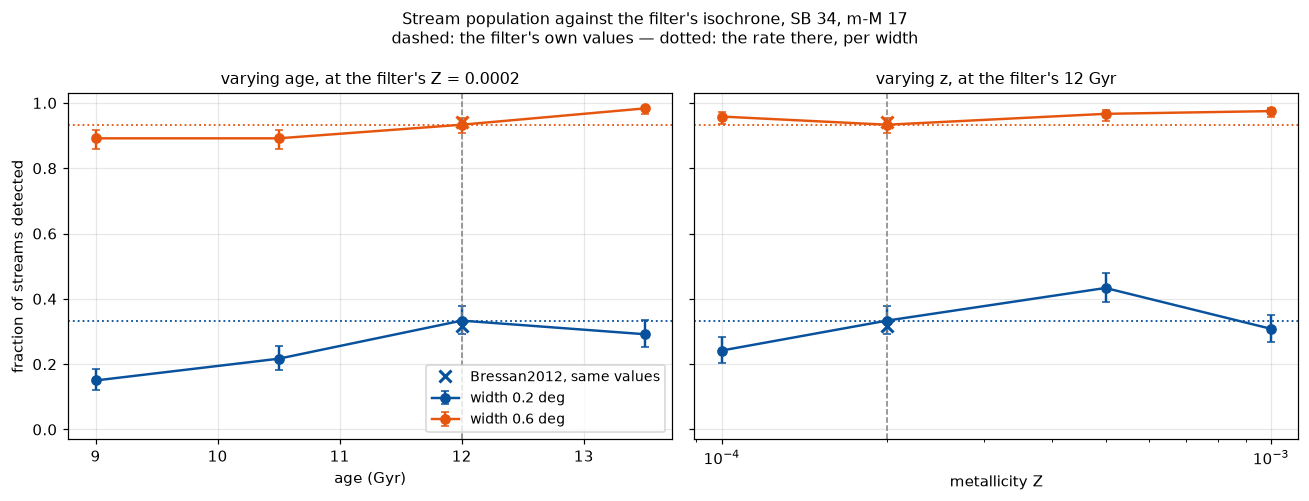
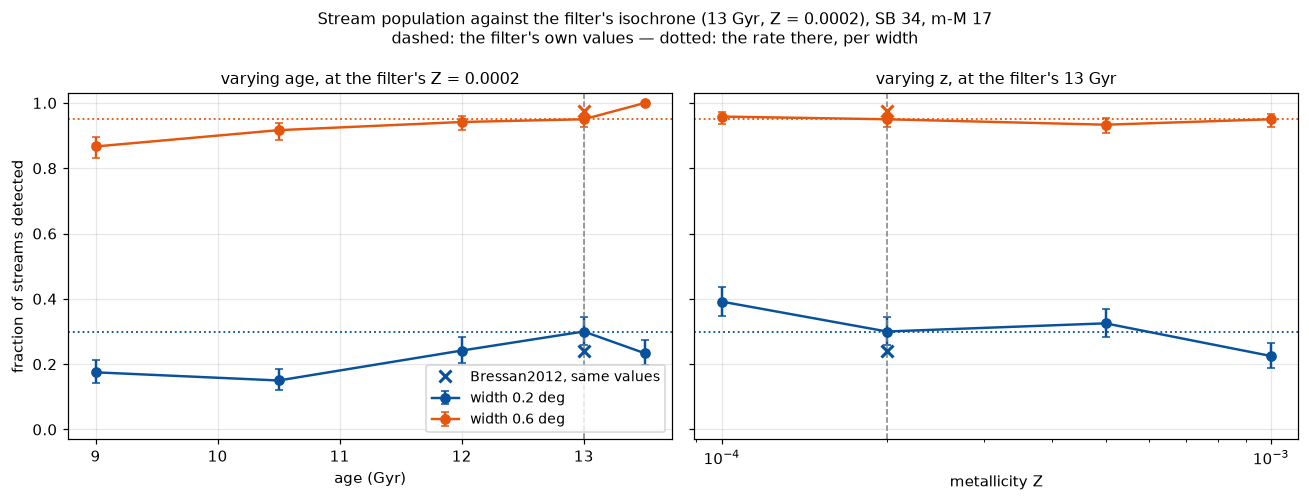
The 13 Gyr series: 13 of 14 DES streams found in every injection
Retrained on the Shipp et al. (2018) filter, the ensemble of six recovers
thirteen DES streams in all 60 injections and Wambelong in 92%, mean 99.4%
against 95.4% for one training. The 12 Gyr series said the same thing, so
the gain does not depend on the filter's isochrone.

The mismatch scan, now run against both filters, weakens one earlier claim
and strengthens another. The star-count mechanism correlates 0.70 at one
filter but an insignificant 0.47 at the other, with two populations
breaking it badly, so it explains part of the variation and not all of it;
that is now stated as such. What replicates is that the two youngest
populations are the two worst against both filters, which makes age the
axis worth covering in training and metallicity not.

diff --git a/scripts/experiments/stream_parameters/figures.py b/scripts/experiments/stream_parameters/figures.py
@@ -42,6 +42,10 @@ REPO = Path(__file__).resolve().parents[3]
 DATA = REPO / "data" / "experiments" / "stream_parameters"
 FIGURES = REPO / "docs" / "source" / "experiments" / "figures" / "stream_parameters"
 TARGET = 1e-3
+# The current series uses the 13 Gyr filter of Shipp et al. (2018) and writes
+# under this prefix; the 12 Gyr series owns the untagged names. Figures built
+# from a results file that only exists untagged say so in their title.
+TAG = "a13_"
 WIDTH_COLOURS = {0.2: "#08519c", 0.6: "#e6550d", 1.2: "#31a354"}
 STYLES = {4800: ("-", "o", "4800 w"), 19200: ("--", "s", "19200 w")}
 
@@ -132,7 +136,10 @@ def figure_training_spread(matched):
     ax.set_ylim(-0.03, 1.03)
     ax.grid(alpha=0.3)
     ax.legend(fontsize=9)
-    ax.set_title("SB 34: one point per trained model (6 x 4800 windows)", fontsize=11)
+    ax.set_title(
+        "SB 34: one point per trained model (6 x 4800 windows, 12 Gyr filter)",
+        fontsize=11,
+    )
     fig.tight_layout()
     fig.savefig(FIGURES / "training_spread.png", dpi=110, bbox_inches="tight")
     plt.close(fig)
@@ -140,7 +147,7 @@ def figure_training_spread(matched):
 
 def figure_des_streams():
     """Recovery of each DES 2018 stream, with the range over the trainings."""
-    path = DATA / "des_results.pkl"
+    path = DATA / f"{TAG}des_results.pkl"
     if not path.exists():
         return None
     spec = importlib.util.spec_from_file_location(
@@ -171,7 +178,7 @@ def figure_des_streams():
         ]
     ).sort_values("fraction")
 
-    ensemble_path = DATA / "des_results_ensemble.pkl"
+    ensemble_path = DATA / f"{TAG}des_results_ensemble.pkl"
     if ensemble_path.exists():
         ens = detection_at_false_alarm_rate(
             pd.read_pickle(ensemble_path),
@@ -210,7 +217,8 @@ def figure_des_streams():
     ax.set_xlabel("fraction of injections recovered at the stream's known position")
     ax.grid(alpha=0.3, axis="x")
     ax.set_title(
-        "DES 2018 streams, simulated with their own parameters\n"
+        "DES 2018 streams, simulated with their own parameters "
+        "(13 Gyr filter)\n"
         "bars: mean of 6 trainings (20 injections each) — "
         "lines: lowest to highest training, not a confidence interval",
         fontsize=10.5,
@@ -230,7 +238,7 @@ def figure_isochrone():
     metallicity at the same surface brightness, so what changes is which of
     its stars the filter selects, not how bright the stream is.
     """
-    path = DATA / "isochrone_results.pkl"
+    path = DATA / f"{TAG}isochrone_results.pkl"
     if not path.exists():
         return None
     results = pd.read_pickle(path)
@@ -257,12 +265,12 @@ def figure_isochrone():
     # The scan runs in the filter's own family; the other family appears once,
     # at the filter's own values, to measure that systematic on its own.
     scanned = table[table.model == "Marigo2017"]
-    own = scanned[(scanned.age == 12.0) & (scanned.z == 0.0002)]
+    own = scanned[(scanned.age == 13.0) & (scanned.z == 0.0002)]
     reference = dict(zip(own["width"], own["fraction"], strict=True))
     other = table[table.model != "Marigo2017"]
 
     fig, axes = plt.subplots(1, 2, figsize=(12, 4.6), sharey=True)
-    held = {"age": 0.0002, "z": 12.0}
+    held = {"age": 0.0002, "z": 13.0}
     labels = {"age": "age (Gyr)", "z": "metallicity Z"}
     for ax, varied in zip(axes, ["age", "z"], strict=True):
         fixed = "z" if varied == "age" else "age"
@@ -288,7 +296,7 @@ def figure_isochrone():
             )
             if width in reference:
                 ax.axhline(reference[width], color=colour, ls=":", lw=1.2)
-        ax.axvline(12.0 if varied == "age" else 0.0002, color="0.5", ls="--", lw=1.0)
+        ax.axvline(13.0 if varied == "age" else 0.0002, color="0.5", ls="--", lw=1.0)
         for _, row in other.iterrows():
             ax.plot(
                 row["age"] if varied == "age" else row["z"],
@@ -306,7 +314,7 @@ def figure_isochrone():
         ax.set_xlabel(labels[varied])
         ax.set_title(
             f"varying {varied}, at the filter's "
-            + ("Z = 0.0002" if varied == "age" else "12 Gyr"),
+            + ("Z = 0.0002" if varied == "age" else "13 Gyr"),
             fontsize=10.5,
         )
         ax.set_ylim(-0.03, 1.03)
@@ -314,7 +322,8 @@ def figure_isochrone():
     axes[0].set_ylabel("fraction of streams detected")
     axes[0].legend(fontsize=9, loc="lower right")
     fig.suptitle(
-        "Stream population against the filter's isochrone, SB 34, m-M 17\n"
+        "Stream population against the filter's isochrone "
+        "(13 Gyr, Z = 0.0002), SB 34, m-M 17\n"
         "dashed: the filter's own values — dotted: the rate there, per width",
         fontsize=10.5,
     )
@@ -451,8 +460,8 @@ def main(contrast):
             .to_string(index=False)
         )
     for name, label in (
-        ("des_results_ensemble.pkl", "DES streams"),
-        ("results_ensemble.pkl", "grid"),
+        (f"{TAG}des_results_ensemble.pkl", "DES streams"),
+        ("des_results_ensemble.pkl", "DES streams, 12 Gyr filter"),
     ):
         if (DATA / name).exists():
             ens = detection_at_false_alarm_rate(

diff --git a/docs/source/experiments/stream_parameters.md b/docs/source/experiments/stream_parameters.md
@@ -376,26 +376,29 @@ stream-free sky.
    that floor, at essentially no false alarms. Threshold tuning will have to
    work with that, not with a smooth trade-off curve.
 
-7. **Simulated with their own parameters, 12 of the 14 DES 2018 streams are
-   recovered in at least 97% of injections** at their known positions, and the
-   two exceptions (Wambelong 49%, Aliqa Uma 80%) are the ones the grid points
-   to. See the next section for what that does and does not mean. The models
+7. **Simulated with their own parameters, 13 of the 14 DES 2018 streams are
+   recovered in at least 94% of injections** by a single training (ten of them
+   in every injection), and the one exception, Wambelong at 57%, is the stream
+   the grid points to. See the next section for what that does and does not mean. The models
    scoring this never saw those parameter values: a 4800-window training is
    expected to contain 0.03 to 0.12 streams even loosely resembling a given
    one of them.
 8. **A stream whose population is not the filter's isochrone is not thereby
-   harder to find** — the filter's own values are not the best point (Z =
-   0.0005 is recovered at 43% against 33%), and the isochrone family does not
-   matter at all (32% against 33%). What predicts detection is how many stars
-   the population puts through the filter at fixed surface brightness
-   (correlation 0.70). **The exception is young populations**: 9 Gyr against
-   the filter's 12 falls to 15% from 33%, fewer and brighter stars for the
-   same light. All of this is invisible where there is margin: at width 0.6
-   every population lands between 89% and 98%.
-9. **Averaging the six trainings into one map recovers all 14 DES streams at
-   88% or better** (mean 99.0% against 94.2% for a single training), with the
-   whole gain in the two streams the trainings disagreed on: Wambelong 49% to
-   88%, Aliqa Uma 80% to 98%. It matches the best single training rather than
+   harder to find.** Scanned against both filters, the filter's own values are
+   never the best point (41% against 30% at 13 Gyr; 43% against 33% at
+   12 Gyr), and the isochrone family is worth a few points in no consistent
+   direction. Part of the variation follows how many stars the population puts
+   through the filter at fixed surface brightness, but only part of it
+   (correlation 0.70 at one filter, an insignificant 0.47 at the other).
+   **What does replicate is that young populations are worst**: the two
+   youngest are the two worst against both filters, 15-18% against 30%, fewer
+   and brighter stars for the same light. **Age is therefore the axis worth
+   covering in training; metallicity is not.** All of it is invisible where
+   there is margin: at width 0.6 every population lands between 87% and 100%.
+9. **Averaging the six trainings into one map recovers 13 of the 14 DES
+   streams in every injection, and Wambelong in 92%** (mean 99.4% against
+   95.4% for a single training), with the whole gain in the streams the
+   trainings disagreed on: Wambelong 57% to 92%, Aliqa Uma 88% to 100%. It matches the best single training rather than
    the average, so the spread was noise, not some trainings being better.
    This is the configuration to deploy.
 
@@ -406,7 +409,10 @@ several at once. So each of the 14 DES streams with measured parameters
 (Shipp et al. 2018) is simulated **with its own width, length, distance and
 surface brightness**, injected at random positions in the study region, and
 scored at its known track by the six quick models — 20 injections per model,
-120 per stream.
+120 per stream. The numbers below are the **13 Gyr series** (the filter of
+Shipp et al. 2018); the 12 Gyr series it replaced gave 94.2% against 95.4%
+over the 14 streams, the two differing nowhere by more than the spread
+between trainings.
 
 ### What the models scoring this figure were trained on
 
@@ -454,16 +460,14 @@ sampling alone would give about ±4.5 points on 120 injections. Where the lines
 are short, all six models agree. Each stream is queried at the grid distance
 nearest its own.*
 
-| stream | m−M | width | SB | recovered (range over trainings) |
-|---|---|---|---|---|
-| Tucana III, Molonglo, Indus, Ravi, Chenab, Turbio, Willka Yaku | 16.1-18.0 | 0.18-0.83 | 31.9-34.1 | **100%** |
-| Elqui | 18.5 | 0.54 | 34.3 | 99% (95-100) |
-| ATLAS | 16.8 | 0.24 | 33.0 | 98% (95-100) |
-| Phoenix | 16.4 | 0.16 | 32.6 | 98% (95-100) |
-| Jhelum | 15.6 | 1.16 | 33.3 | 97% (85-100) |
-| Turranburra | 17.2 | 0.60 | 34.0 | 97% (85-100) |
-| Aliqa Uma | 17.3 | 0.26 | 33.8 | 80% (35-95) |
-| **Wambelong** | **15.9** | **0.40** | **33.7** | **49% (15-85)** |
+| stream | m−M | width | SB | one training, mean (range) | the six averaged |
+|---|---|---|---|---|---|
+| Wambelong | 15.9 | 0.40 | 33.7 | 57% (5-95) | **92%** |
+| Aliqa Uma | 17.3 | 0.26 | 33.8 | 88% (65-100) | 100% |
+| Turranburra | 17.2 | 0.60 | 34.0 | 94% (80-100) | 100% |
+| Jhelum | 15.6 | 1.16 | 33.3 | 97% (85-100) | 100% |
+| the other ten | | | | 100% | 100% |
+| **mean over the 14** | | | | **95.4%** | **99.4%** |
 
 **Statement.** Simulated with their own parameters, **12 of the 14 streams are
 recovered in at least 97% of injections**, including the two faintest ones
@@ -536,26 +540,28 @@ They answer the question the spread raised:
 
 | stream | mean of the six (range) | the six averaged | change |
 |---|---|---|---|
-| Wambelong | 49% (15-85) | **88%** | +39 |
-| Aliqa Uma | 80% (35-95) | **98%** | +18 |
-| Jhelum, Turranburra | 97% (85-100) | 100% | +3 |
-| ATLAS, Phoenix | 98% (95-100) | 100% | +2 |
-| Elqui | 99% (95-100) | 100% | +1 |
-| the other 8 | 100% | 100% | 0 |
-| **mean over the 14** | **94.2%** | **99.0%** | **+4.8** |
+| Wambelong | 57% (5-95) | **92%** | +35 |
+| Aliqa Uma | 88% (65-100) | 100% | +12 |
+| Turranburra | 94% (80-100) | 100% | +6 |
+| Jhelum | 97% (85-100) | 100% | +3 |
+| the other ten | 100% | 100% | 0 |
+| **mean over the 14** | **95.4%** | **99.4%** | **+4.0** |
+
+The 12 Gyr series says the same thing: 94.2% to 99.0%, with Wambelong 49% to
+88%. The gain does not depend on which isochrone the filter uses.
 
 The gain is concentrated exactly where the six models disagreed, which is what
 averaging is supposed to do and confirms the disagreement was mostly noise
 rather than some trainings being better models. On Wambelong the ensemble
-(88%, 60 injections, 68% interval 84-92) matches or beats the **best** of the
-six (85%), not just their mean — so this is not a matter of discarding bad
+(92%, 60 injections, 68% interval 87-95) matches or beats the **best** of the
+six (95%), not just their mean — so this is not a matter of discarding bad
 trainings, which could not be done in practice anyway without knowing in
 advance which ones they are.
 
 For a real search this is the configuration to deploy: six quick trainings
-cost about 70 minutes in total, and their averaged map recovers all 14 DES
-streams at 88% or better, against 49% for the worst stream under a single
-training. The threshold is chosen on the ensemble's own map at the same
+cost about 75 minutes in total, and their averaged map recovers **13 of the
+14 DES streams in every injection**, with Wambelong at 92% — against 57% for
+that stream under a single training, and 5% under the unluckiest one. The threshold is chosen on the ensemble's own map at the same
 false-alarm rate, so nothing about the operating point is borrowed from the
 members.
 
@@ -652,49 +658,60 @@ matched-filter map without becoming any fainter on the sky.
 The dashed line marks the filter's own value, the dotted line the rate there,
 and the × is the other isochrone family at those same values.*
 
-| population | width 0.2 (33% at the filter's own) | width 0.6 (93%) |
-|---|---|---|
-| 9 Gyr, Z = 0.0002 | **15%** | 89% |
-| 10.5 Gyr, Z = 0.0002 | 22% | 89% |
-| **12 Gyr, Z = 0.0002** (the filter's) | 33% | 93% |
-| 13.5 Gyr, Z = 0.0002 | 29% | 98% |
-| 12 Gyr, Z = 0.0001 | 24% | 96% |
-| 12 Gyr, Z = 0.0005 | **43%** | 97% |
-| 12 Gyr, Z = 0.001 | 31% | 98% |
-| 9 Gyr, Z = 0.001 | 29% | 89% |
-| 13.5 Gyr, Z = 0.0001 | 38% | 97% |
-| 12 Gyr, Z = 0.0002, Bressan2012 | 32% | 94% |
+Scanned twice, once against each filter. Each entry pools 120 injections, so
+each carries about ±4.5 points of sampling error on its own.
+
+| injected population | width 0.2 | width 0.6 | (12 Gyr filter, width 0.2) |
+|---|---|---|---|
+| 9 Gyr, Z = 0.0002 | **18%** | 87% | 15% |
+| 10.5 Gyr, Z = 0.0002 | **15%** | 92% | 22% |
+| 12 Gyr, Z = 0.0002 | 24% | 94% | 33% (its own) |
+| **13 Gyr, Z = 0.0002** (the filter's) | 30% | 95% | — |
+| 13.5 Gyr, Z = 0.0002 | 23% | 100% | 29% |
+| 13 Gyr, Z = 0.0001 | **39%** | 96% | 24% |
+| 13 Gyr, Z = 0.0005 | 32% | 93% | 43% |
+| 13 Gyr, Z = 0.001 | 22% | 95% | 31% |
+| 9 Gyr, Z = 0.001 | 32% | 90% | 29% |
+| 13.5 Gyr, Z = 0.0001 | **41%** | 97% | 38% |
+| 13 Gyr, Z = 0.0002, Bressan2012 | 24% | 98% | 32% |
 
 Three things come out of it, and the second is not what the test was set up to
 find.
 
-**1. The isochrone family does not matter.** Bressan2012 at the filter's own
-age and metallicity gives 32% against Marigo2017's 33%, and 94% against 93%.
-Whatever the mismatch costs, it is not sensitive to which library the stream
-was drawn from.
+**1. The isochrone family barely matters.** Bressan2012 at the filter's own
+age and metallicity gives 24% against Marigo2017's 30% at width 0.2 (and 98%
+against 95% at width 0.6). The 12 Gyr series put the same pair at 32% against
+33%. Both gaps are within about a standard error of each other, so the family
+is worth at most a few points, in no consistent direction.
 
 **2. Mismatch alone does not predict the loss — the filter's own population is
-not the best one.** Z = 0.0005 is detected at 43% against the matched 33%, and
-(13.5 Gyr, Z = 0.0001) at 38%. A pure mismatch penalty would peak at the
-filter's own values and fall away on both sides; this does not.
+never the best one.** Against the 13 Gyr filter, (13.5 Gyr, Z = 0.0001) is
+detected at 41% and (13 Gyr, Z = 0.0001) at 39%, against 30% for the filter's
+own values. Against the 12 Gyr filter the best point was Z = 0.0005 at 43%
+against 33%. A pure mismatch penalty would peak at the filter's own values and
+fall away on both sides. Neither scan does, and the winning direction is not
+even the same one — metal-poor here, metal-rich there.
 
-What does predict it is **how many stars the population puts through the
-filter**. Across the ten populations, detection correlates with the
-filter-selected star count at 0.70 (width 0.2). Surface brightness is held
-fixed, so a population with fainter stars per unit light simply has *more* of
-them, and more survive to be selected: 499 selected stars at 9 Gyr against 624
-at (12 Gyr, Z = 0.0005), the best-detected point. The mismatch penalty and the
-star-count gain pull in opposite directions, and over this range the star
-count usually wins.
+Part of the answer is **how many stars the population puts through the
+filter**: surface brightness is held fixed, so a population whose light sits
+in fainter stars simply has more of them to be selected. Detection correlates
+with the filter-selected star count at 0.70 against the 12 Gyr filter, which
+is the cleaner of the two, but only 0.47 against the 13 Gyr one — with eleven
+points that second figure is not significant, and two populations break it
+badly (10.5 Gyr has 582 selected stars and 15% detection; 13 Gyr at
+Z = 0.0001 has 562 and 39%). **So the star count explains part of this and
+not all of it**, and what the rest is has not been established here.
 
-**3. Young populations are the real risk.** The clear loss is at 9 Gyr: 15%
-against 33%, less than half, and the bars do not overlap. At fixed surface
-brightness a young population's light sits in fewer, brighter stars, so
-fewer of them clear the detection limit at all. Metal-rich mismatch, over the
-metal-poor range streams actually occupy, costs nothing.
+**3. Young populations are the real risk, and that does replicate.** The two
+youngest populations are the two worst against both filters: 18% and 15%
+against the 13 Gyr filter's own 30%, and 15% and 22% against the 12 Gyr
+filter's own 33%. At fixed surface brightness a young population's light sits
+in fewer, brighter stars, so fewer of them clear the detection limit at all.
+Metallicity, over the metal-poor range streams actually occupy, costs nothing
+in either scan.
 
 None of this is visible at width 0.6, where every population lands between
-89% and 98%: with enough margin the choice of population barely registers.
+87% and 100%: with enough margin the choice of population barely registers.
 That is the argument for scanning at an operating point with something to
 lose.
 
